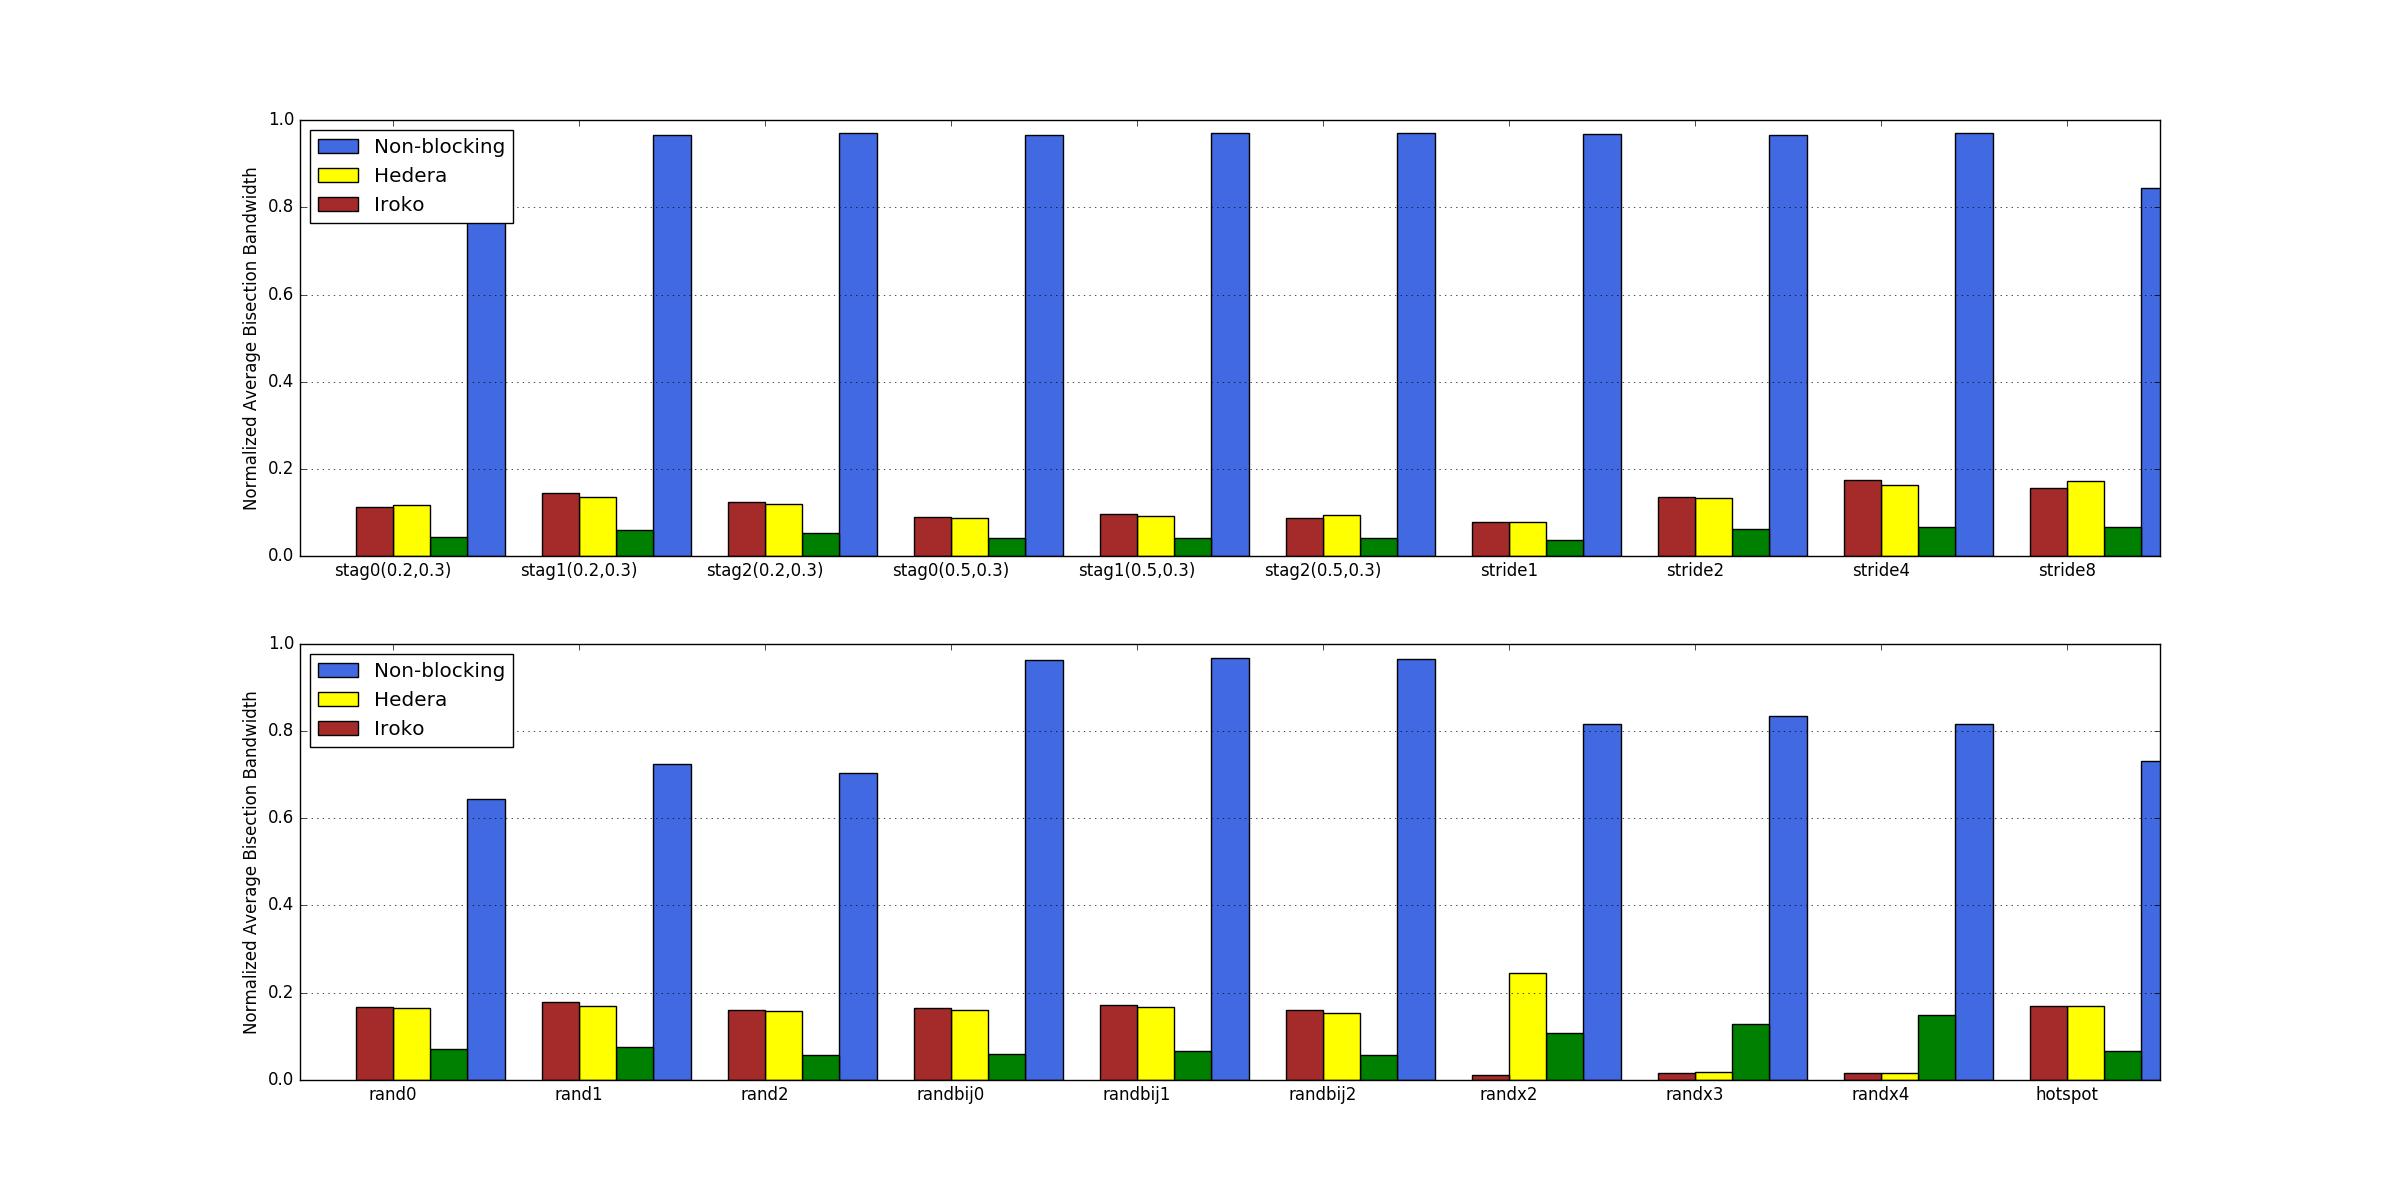
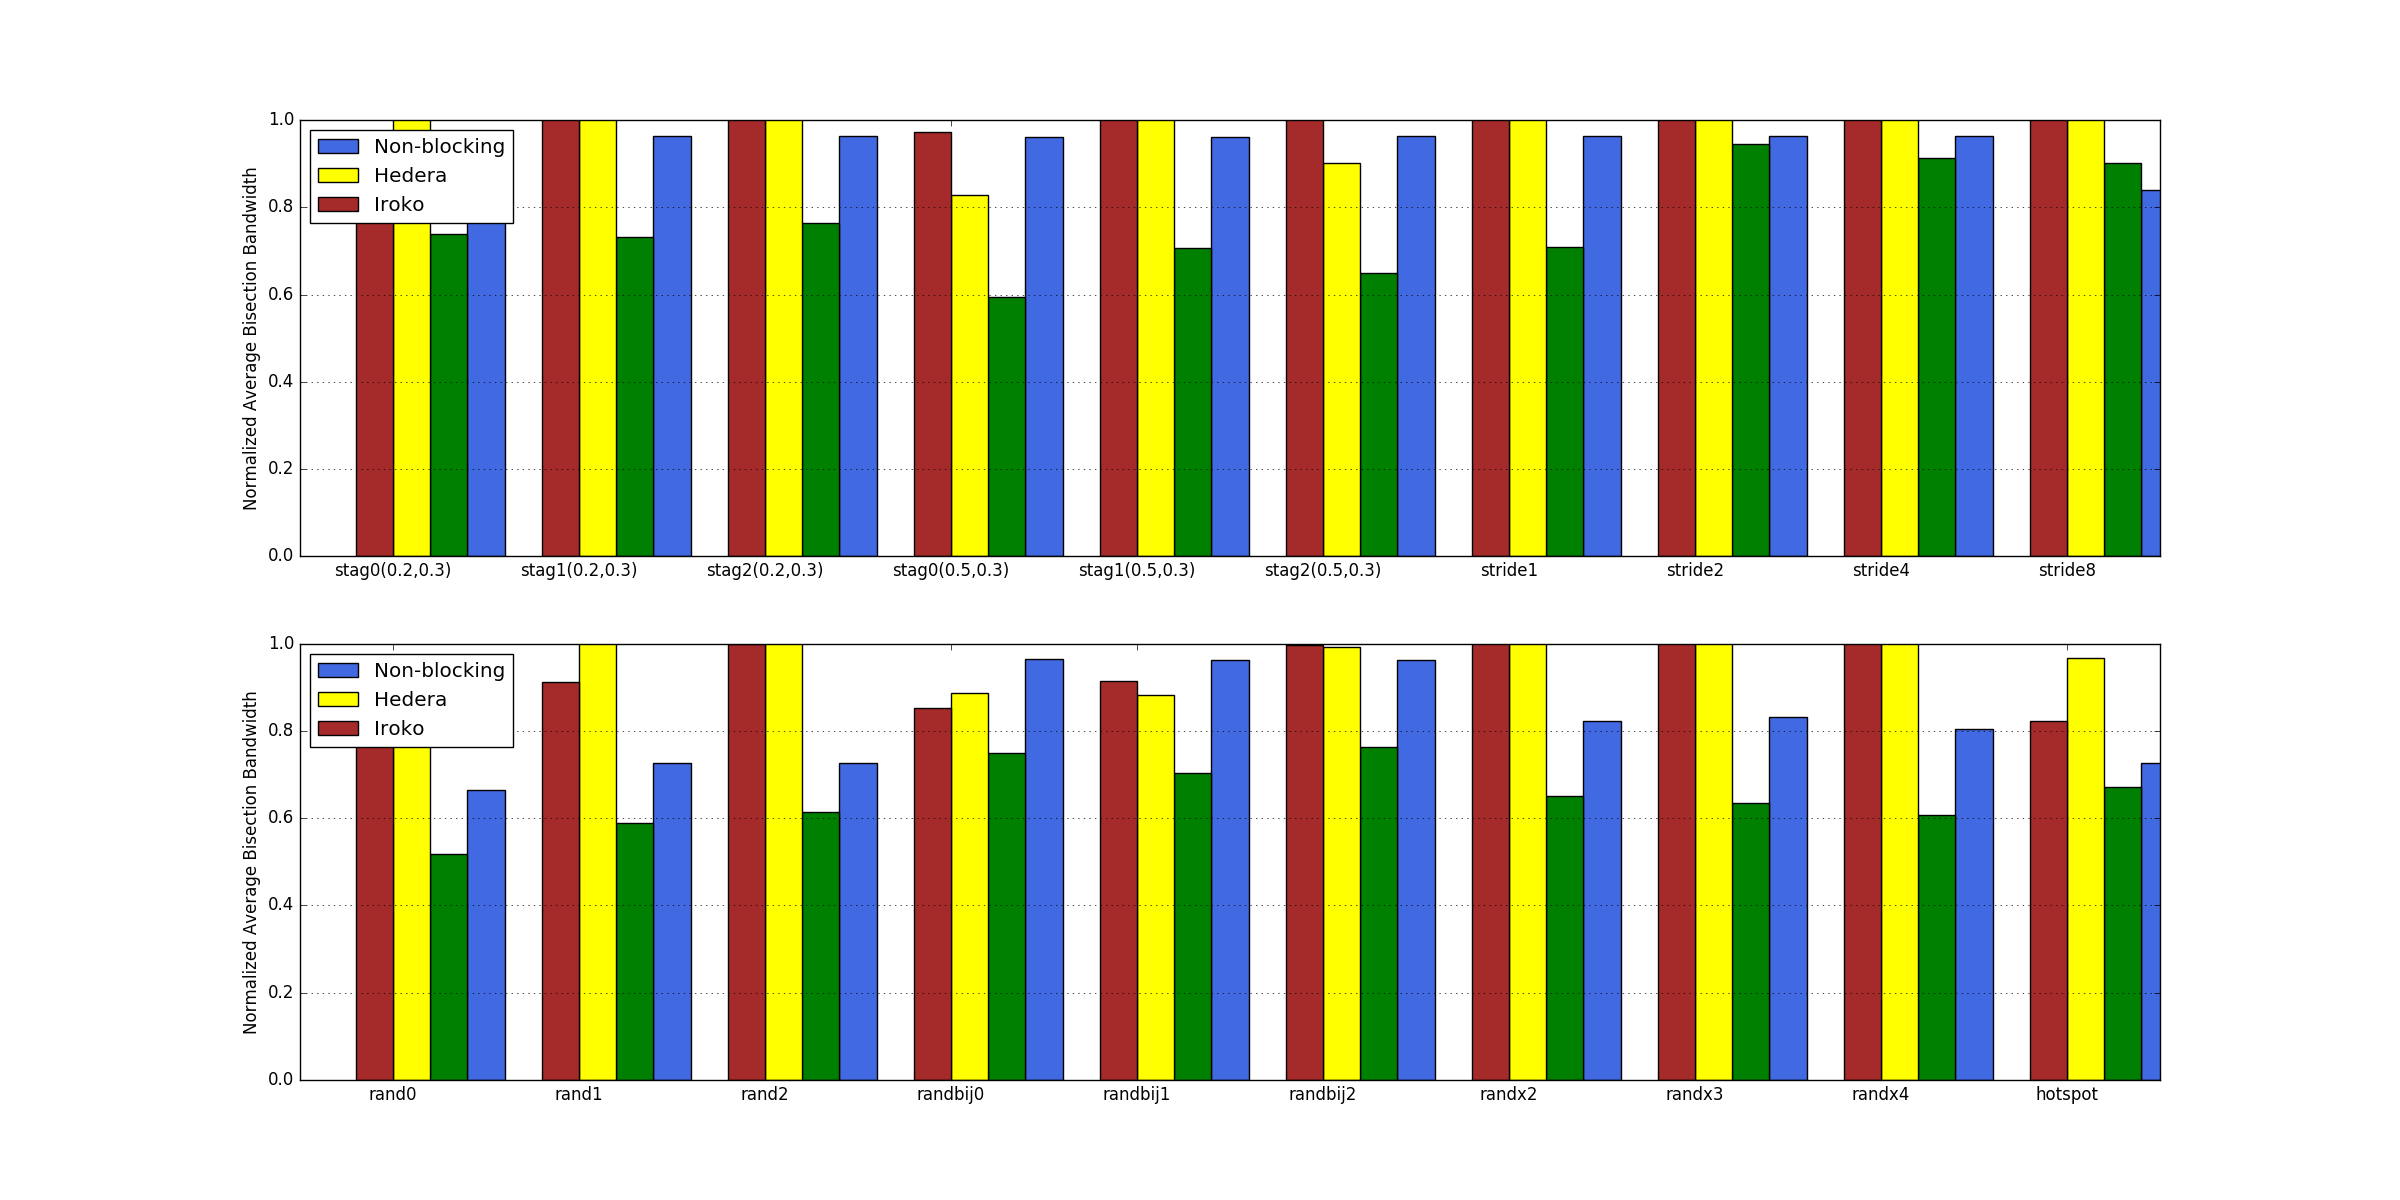
Even more benchmarking changes.

diff --git a/Iroko/iroko.py b/Iroko/iroko.py
@@ -22,6 +22,7 @@ from hedera.DCTopo import FatTreeTopo
 import topo_ecmp
 import topo_non_block
 
+MAX_QUEUE = 50
 
 parser = ArgumentParser(description="Iroko Parser")
 
@@ -167,10 +168,14 @@ def pingTest(net):
 def clean():
     ''' Clean any the running instances of POX '''
 
-    p = Popen("ps aux | grep 'pox' | awk '{print $2}'",
+    p_pox = Popen("ps aux | grep 'pox' | awk '{print $2}'",
               stdout=PIPE, shell=True)
-    p.wait()
-    procs = (p.communicate()[0]).split('\n')
+    p_pox.wait()
+    procs = (p_pox.communicate()[0]).split('\n')
+    p_ryu = Popen("ps aux | grep 'ryu' | awk '{print $2}'",
+              stdout=PIPE, shell=True)
+    p_ryu.wait()
+    procs.extend((p_ryu.communicate()[0]).split('\n'))
     for pid in procs:
         try:
             pid = int(pid)
@@ -190,10 +195,12 @@ def FatTreeTest(args, controller):
     is_ecmp = True  # default value
     if controller == "Iroko":
         makeTerm(c0, cmd="./ryu/bin/ryu-manager --observe-links --ofp-tcp-listen-port 6653 network_monitor.py")
+        # Popen("./ryu/bin/ryu-manager --observe-links --ofp-tcp-listen-port 6653 network_monitor.py", shell=True)
 
-        #c0.cmdPrint('xterm  -T \"./ryu/bin/ryu-manager --observe-links network_monitor.py\" &')
     elif controller == "HController":
-        makeTerm(c0, cmd="hedera/pox/pox.py HController --topo=ft,4 --routing=ECMP")
+        # makeTerm(c0, cmd="hedera/pox/pox.py HController --topo=ft,4 --routing=ECMP")
+        Popen("hedera/pox/pox.py HController --topo=ft,4 --routing=ECMP", shell=True)
+
         ovs_v = 10
         is_ecmp = False
     net.addController(c0)
@@ -207,7 +214,7 @@ def FatTreeTest(args, controller):
     sleep(2)
     hosts = net.hosts
     trafficGen(args, hosts, net)
-
+    CLI(net)
     net.stop()
 
 
@@ -228,8 +235,9 @@ def FatTreeNet(k=4, bw=10, cpu=-1, queue=100, controller='HController'):
 
 def HederaTest(args):
     c0 = RemoteController('c0', ip='127.0.0.1', port=6653)
-    makeTerm(c0, cmd="hedera/pox/pox.py HController --topo=ft,4 --routing=ECMP")
-    net = FatTreeNet(k=4, cpu=args.cpu, bw=10, queue=1,
+    # makeTerm(c0, cmd="hedera/pox/pox.py HController --topo=ft,4 --routing=ECMP")
+    Popen("hedera/pox/pox.py HController --topo=ft,4 --routing=ECMP", shell=True)
+    net = FatTreeNet(k=4, cpu=args.cpu, bw=10, queue=MAX_QUEUE,
                      controller=None)
     net.addController(c0)
     net.start()

diff --git a/Iroko/network_monitor.py b/Iroko/network_monitor.py
@@ -536,18 +536,18 @@ class NetworkMonitor(app_manager.RyuApp):
         print("Current Average Utilization: %f" % curr_avg_util)
         print("Current Average Utilization ALT: %f" % curr_avg_util_alt)
 
-        # if _type == 'port':
-        #     print('\ndatapath  port     '
-        #           ' rx-dropped '' tx-dropped '
-        #           ' port-bw(Kb/s)  port-speed(b/s)  port-freebw(Kb/s) ')
-        #     print('--------  --------  ' '----------  ---------- '' -------------  --------------- ' ' -----------------')
-        #     _format = '%8d  %8x  %9d   %9d   %10d  %15.1f  %17.1f'
-        #     for dpid in sorted(bodys.keys()):
-        #         for stat in sorted(bodys[dpid], key=attrgetter('port_no')):
-        #             # if stat.port_no == ofproto_v1_3.OFPP_LOCAL:
-        #             print(_format % (
-        #                 dpid, stat.port_no,
-        #                 stat.rx_dropped, stat.tx_dropped, 10000,
-        #                 abs(self.port_speed[(dpid, stat.port_no)][-1] * 8),
-        #                 self.free_bandwidth[dpid][stat.port_no]))
-        #     print
+        if _type == 'port':
+            print('\ndatapath  port     '
+                  ' rx-dropped '' tx-dropped '
+                  ' port-bw(Kb/s)  port-speed(b/s)  port-freebw(Kb/s) ')
+            print('--------  --------  ' '----------  ---------- '' -------------  --------------- ' ' -----------------')
+            _format = '%8d  %8x  %9d   %9d   %10d  %15.1f  %17.1f'
+            for dpid in sorted(bodys.keys()):
+                for stat in sorted(bodys[dpid], key=attrgetter('port_no')):
+                    # if stat.port_no == ofproto_v1_3.OFPP_LOCAL:
+                    print(_format % (
+                        dpid, stat.port_no,
+                        stat.rx_dropped, stat.tx_dropped, 10000,
+                        abs(self.port_speed[(dpid, stat.port_no)][-1] * 8),
+                        self.free_bandwidth[dpid][stat.port_no]))
+            print

diff --git a/Iroko/plot_rate.py b/Iroko/plot_rate.py
@@ -80,6 +80,7 @@ def plot_results(args):
         print("Nonblocking:", t)
         input_file = args.files + '/nonblocking/%s/rate.txt' % t
         vals = get_bisection_bw(input_file, sw)
+        print (vals)
         bb['nonblocking'].append(vals / fbb)
 
     # sw = '[0-3]h[0-1]h1'
@@ -88,12 +89,14 @@ def plot_results(args):
         print("ECMP:", t)
         input_file = args.files + '/fattree-ecmp/%s/rate.txt' % t
         vals = get_bisection_bw(input_file, sw)
+        print (vals)
         bb['ecmp'].append(vals / fbb / 2)
 
     for t in traffics:
         print("Iroko:", t)
         input_file = args.files + '/fattree-iroko/%s/rate.txt' % t
         vals = get_bisection_bw(input_file, sw)
+        print (vals)
         bb['iroko'].append(vals / fbb / 2)
 
     sw = '[0-3]h[0-1]h1'
@@ -101,6 +104,7 @@ def plot_results(args):
         print("Hedera:", t)
         input_file = args.files + '/fattree-hedera/%s/rate.txt' % t
         vals = get_bisection_bw(input_file, sw)
+        print (vals)
         bb['hedera'].append(vals / fbb / 2)
 
     ind = np.arange(n_t)

diff --git a/Deprecated/Hedera/plot_rate.py b/Deprecated/Hedera/plot_rate.py
@@ -75,6 +75,7 @@ def plot_results(args):
         print "Nonblocking:", t
         input_file = args.files + '/nonblocking/%s/rate.txt' % t    
         vals = get_bisection_bw(input_file, sw)
+        print (vals)
         bb['nonblocking'].append(vals/fbb)
 
     sw = '[0-3]h[0-1]h1'
@@ -82,12 +83,14 @@ def plot_results(args):
         print "ECMP:", t
         input_file = args.files + '/fattree-ecmp/%s/rate.txt' % t
         vals = get_bisection_bw(input_file, sw)
+        print (vals)
         bb['ecmp'].append(vals/fbb/2)
    
     for t in traffics:
        print "Hedera:", t
        input_file = args.files + '/fattree-hedera/%s/rate.txt' % t
        vals = get_bisection_bw(input_file, sw)
+       print (vals)
        bb['hedera'].append(vals/fbb/2)
 
 

diff --git a/Iroko/topo_non_block.py b/Iroko/topo_non_block.py
@@ -30,7 +30,7 @@ import sys
 parentdir = os.path.dirname(os.path.dirname(os.path.abspath(__file__)))
 sys.path.insert(0, parentdir)
 #import iperf_peers
-
+MAX_QUEUE = 50
 
 class NonBlocking(Topo):
     """
@@ -83,7 +83,7 @@ class NonBlocking(Topo):
         """
         for sw in self.CoreSwitchList:
             for host in self.HostList:
-                self.addLink(sw, host, bw=bw_h2c, max_queue_size=1000)   # use_htb=False
+                self.addLink(sw, host, bw=bw_h2c, max_queue_size=MAX_QUEUE)   # use_htb=False
 
     def set_ovs_protocol_13(self):
         """

diff --git a/Iroko/topo_ecmp.py b/Iroko/topo_ecmp.py
@@ -31,7 +31,7 @@ from mininet.util import custom
 
 import os
 
-MAX_QUEUE = 1
+MAX_QUEUE = 50
 DENSITY = 2
 
 
